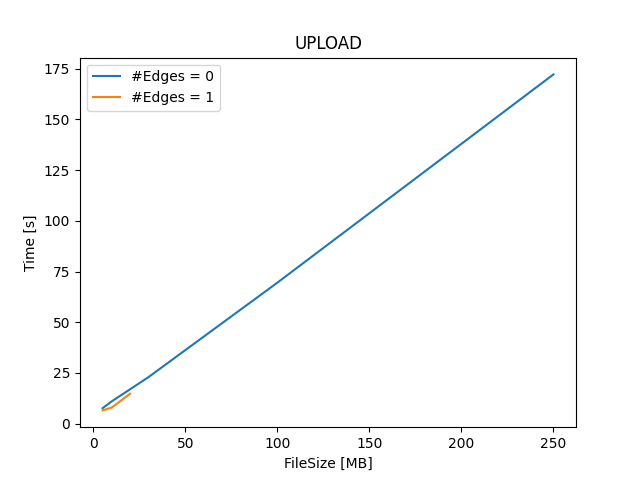
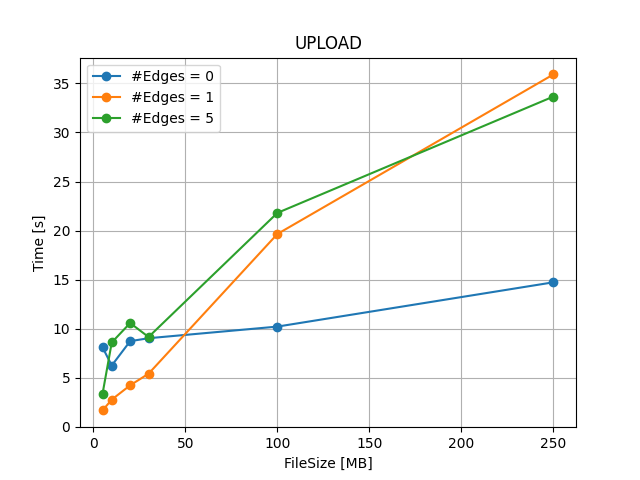
Continue Test

diff --git a/test/data_analyzer.py b/test/data_analyzer.py
@@ -5,9 +5,19 @@ import matplotlib.pyplot as plt
 
 def main() :
     sequential_data_analyze()
+    # parallel_data_analyze()
+
+def parallel_data_analyze() :
+    line_plot("Parallel")
+    return
 
 def sequential_data_analyze() :
-    dataframe : pd.DataFrame = pd.read_csv("../docker/Results/Sequential.csv")
+    line_plot("Sequential")
+    return
+
+
+def line_plot(fileName : str) :
+    dataframe : pd.DataFrame = pd.read_csv("../docker/Results/" + fileName + ".csv")
     
     renamedDataframe = dataframe.rename(columns = {"FileSize [MB]" : "FileSize", "Time [s]" : "Time"})
     # renamedDataframe = renamedDataframe[renamedDataframe.FileSize < 100]
@@ -24,17 +34,39 @@ def sequential_data_analyze() :
             figure.plot(
                 chartDataFrame["FileSize"], 
                 chartDataFrame["Time"], 
-                label = "#Edges = " + str(edgeNum)
+                label = "#Edges = " + str(edgeNum),
+                marker = "o"
             )
             figure.set_xlabel("FileSize [MB]")
             figure.set_ylabel("Time [s]")
         
         plt.legend()
         plt.title(operation)
-        plt.savefig("../docker/Results/Charts/Sequential/" + operation)
+        plt.grid()
+        plt.savefig("../docker/Results/Charts/" + fileName + "/" + operation)
 
         plt.clf()
+
+        figure = plt.subplot()
+        for edgeNum in operationDataFrame["EdgeNum"].unique() :
+            chartDataFrame : pd.DataFrame = operationDataFrame[(operationDataFrame.EdgeNum == edgeNum) & (operationDataFrame.FileSize <= 30)]
+            figure.plot(
+                chartDataFrame["FileSize"], 
+                chartDataFrame["Time"], 
+                label = "#Edges = " + str(edgeNum),
+                marker = "o"
+            )
+            figure.set_xlabel("FileSize [MB]")
+            figure.set_ylabel("Time [s]")
+        
+        plt.legend()
+        plt.title(operation)
+        plt.grid()
+        plt.savefig("../docker/Results/Charts/" + fileName + "/" + operation + "_CUT")
+        plt.clf()
     return
+
+
 
 
 if __name__ == "__main__" :

diff --git a/client/controller/S3Controller.py b/client/controller/S3Controller.py
@@ -25,7 +25,7 @@ def downloadFileFromS3(fileName : str) :
         aws_secret_access_key = os.environ.get("AWS_SECRET_ACCESS_KEY"),
         aws_session_token = os.environ.get("AWS_SESSION_TOKEN"),
         region_name = os.environ.get("AWS_REGION"),
-        config = getS3Config()
+        #config = getS3Config()
     )
     with open(os.environ.get("FILES_PATH") + fileName, 'wb') as f:
         s3.download_fileobj(os.environ.get("S3_BUCKET_NAME"), fileName, f)
@@ -37,7 +37,7 @@ def uploadFileToS3(fileName : str, username : str):
         aws_secret_access_key = os.environ.get("AWS_SECRET_ACCESS_KEY"),
         aws_session_token = os.environ.get("AWS_SESSION_TOKEN"),
         region_name = os.environ.get("AWS_REGION"),
-        config = getS3Config()
+        #config = getS3Config()
     )
     with open(os.environ.get("FILES_PATH") + fileName, "rb") as f:
         s3.upload_fileobj(f, os.environ.get("S3_BUCKET_NAME"), Utils.buildUploadFileName(fileName=fileName, username=username))
@@ -49,7 +49,7 @@ def deleteFileFromS3(fileName : str):
         aws_secret_access_key = os.environ.get("AWS_SECRET_ACCESS_KEY"),
         aws_session_token = os.environ.get("AWS_SESSION_TOKEN"),
         region_name = os.environ.get("AWS_REGION"),
-        config = getS3Config()
+        #config = getS3Config()
     )
     s3.delete_object(Bucket=os.environ.get("S3_BUCKET_NAME"), Key=fileName)
 
